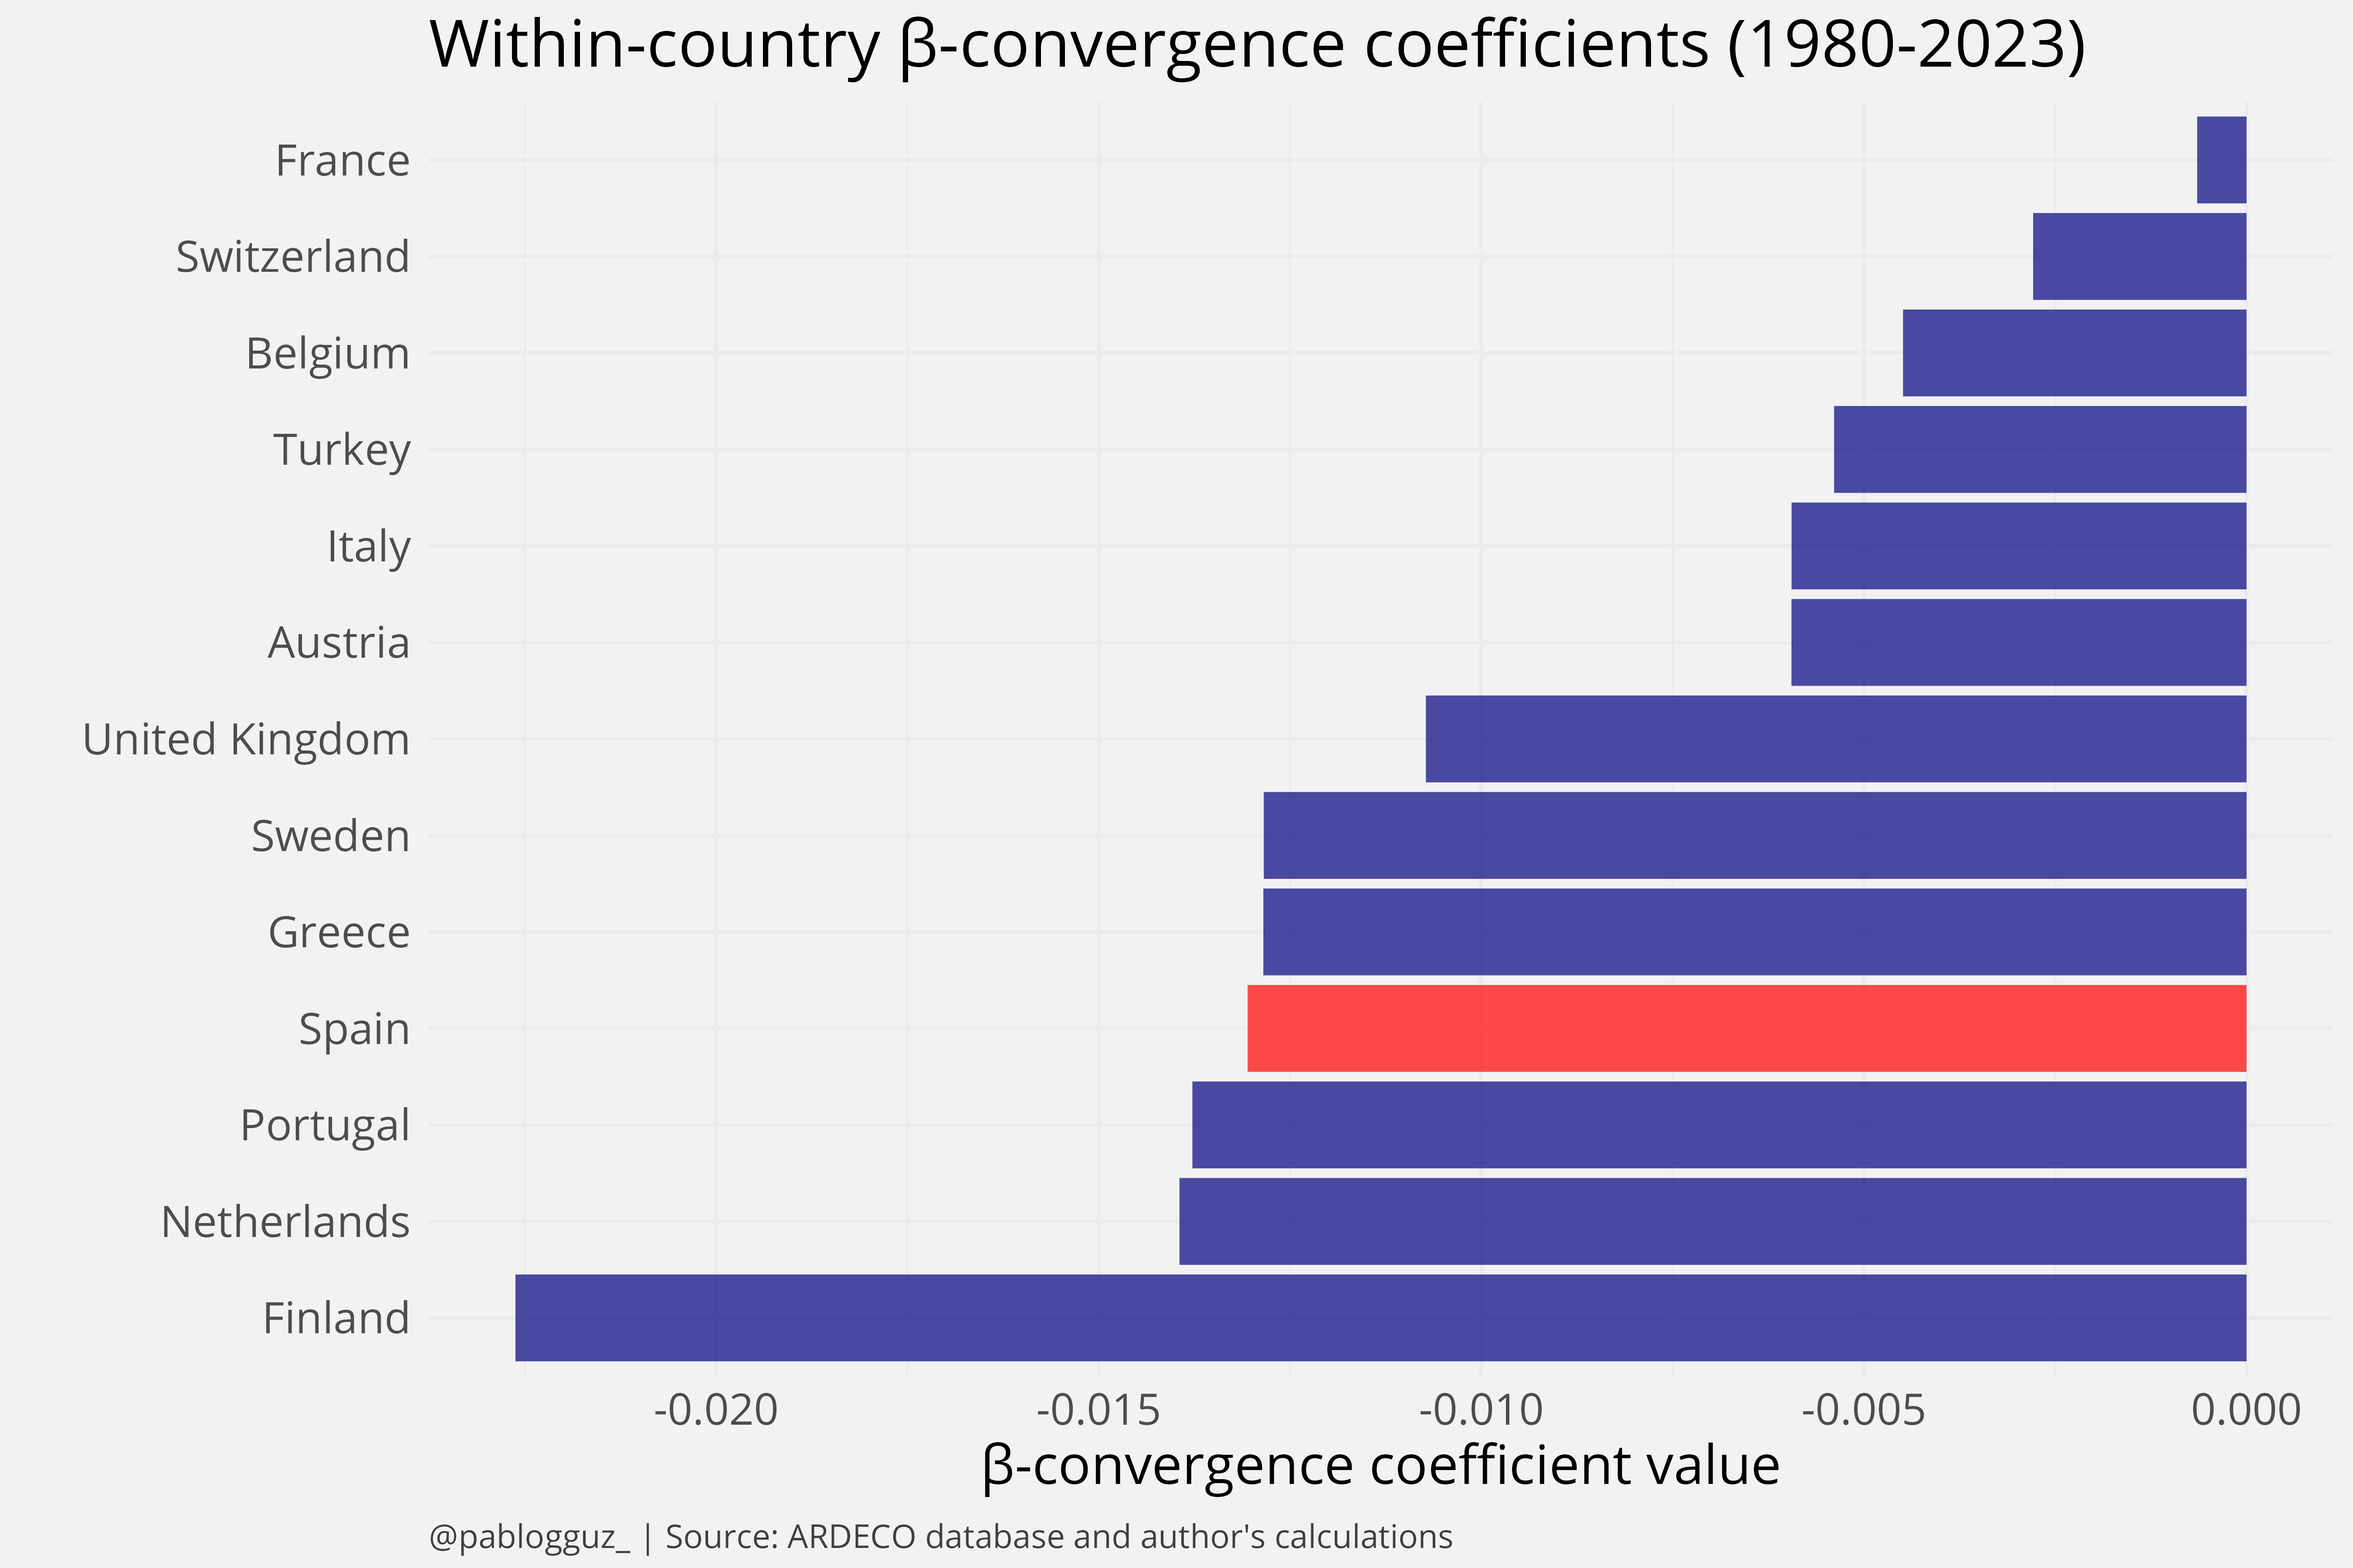
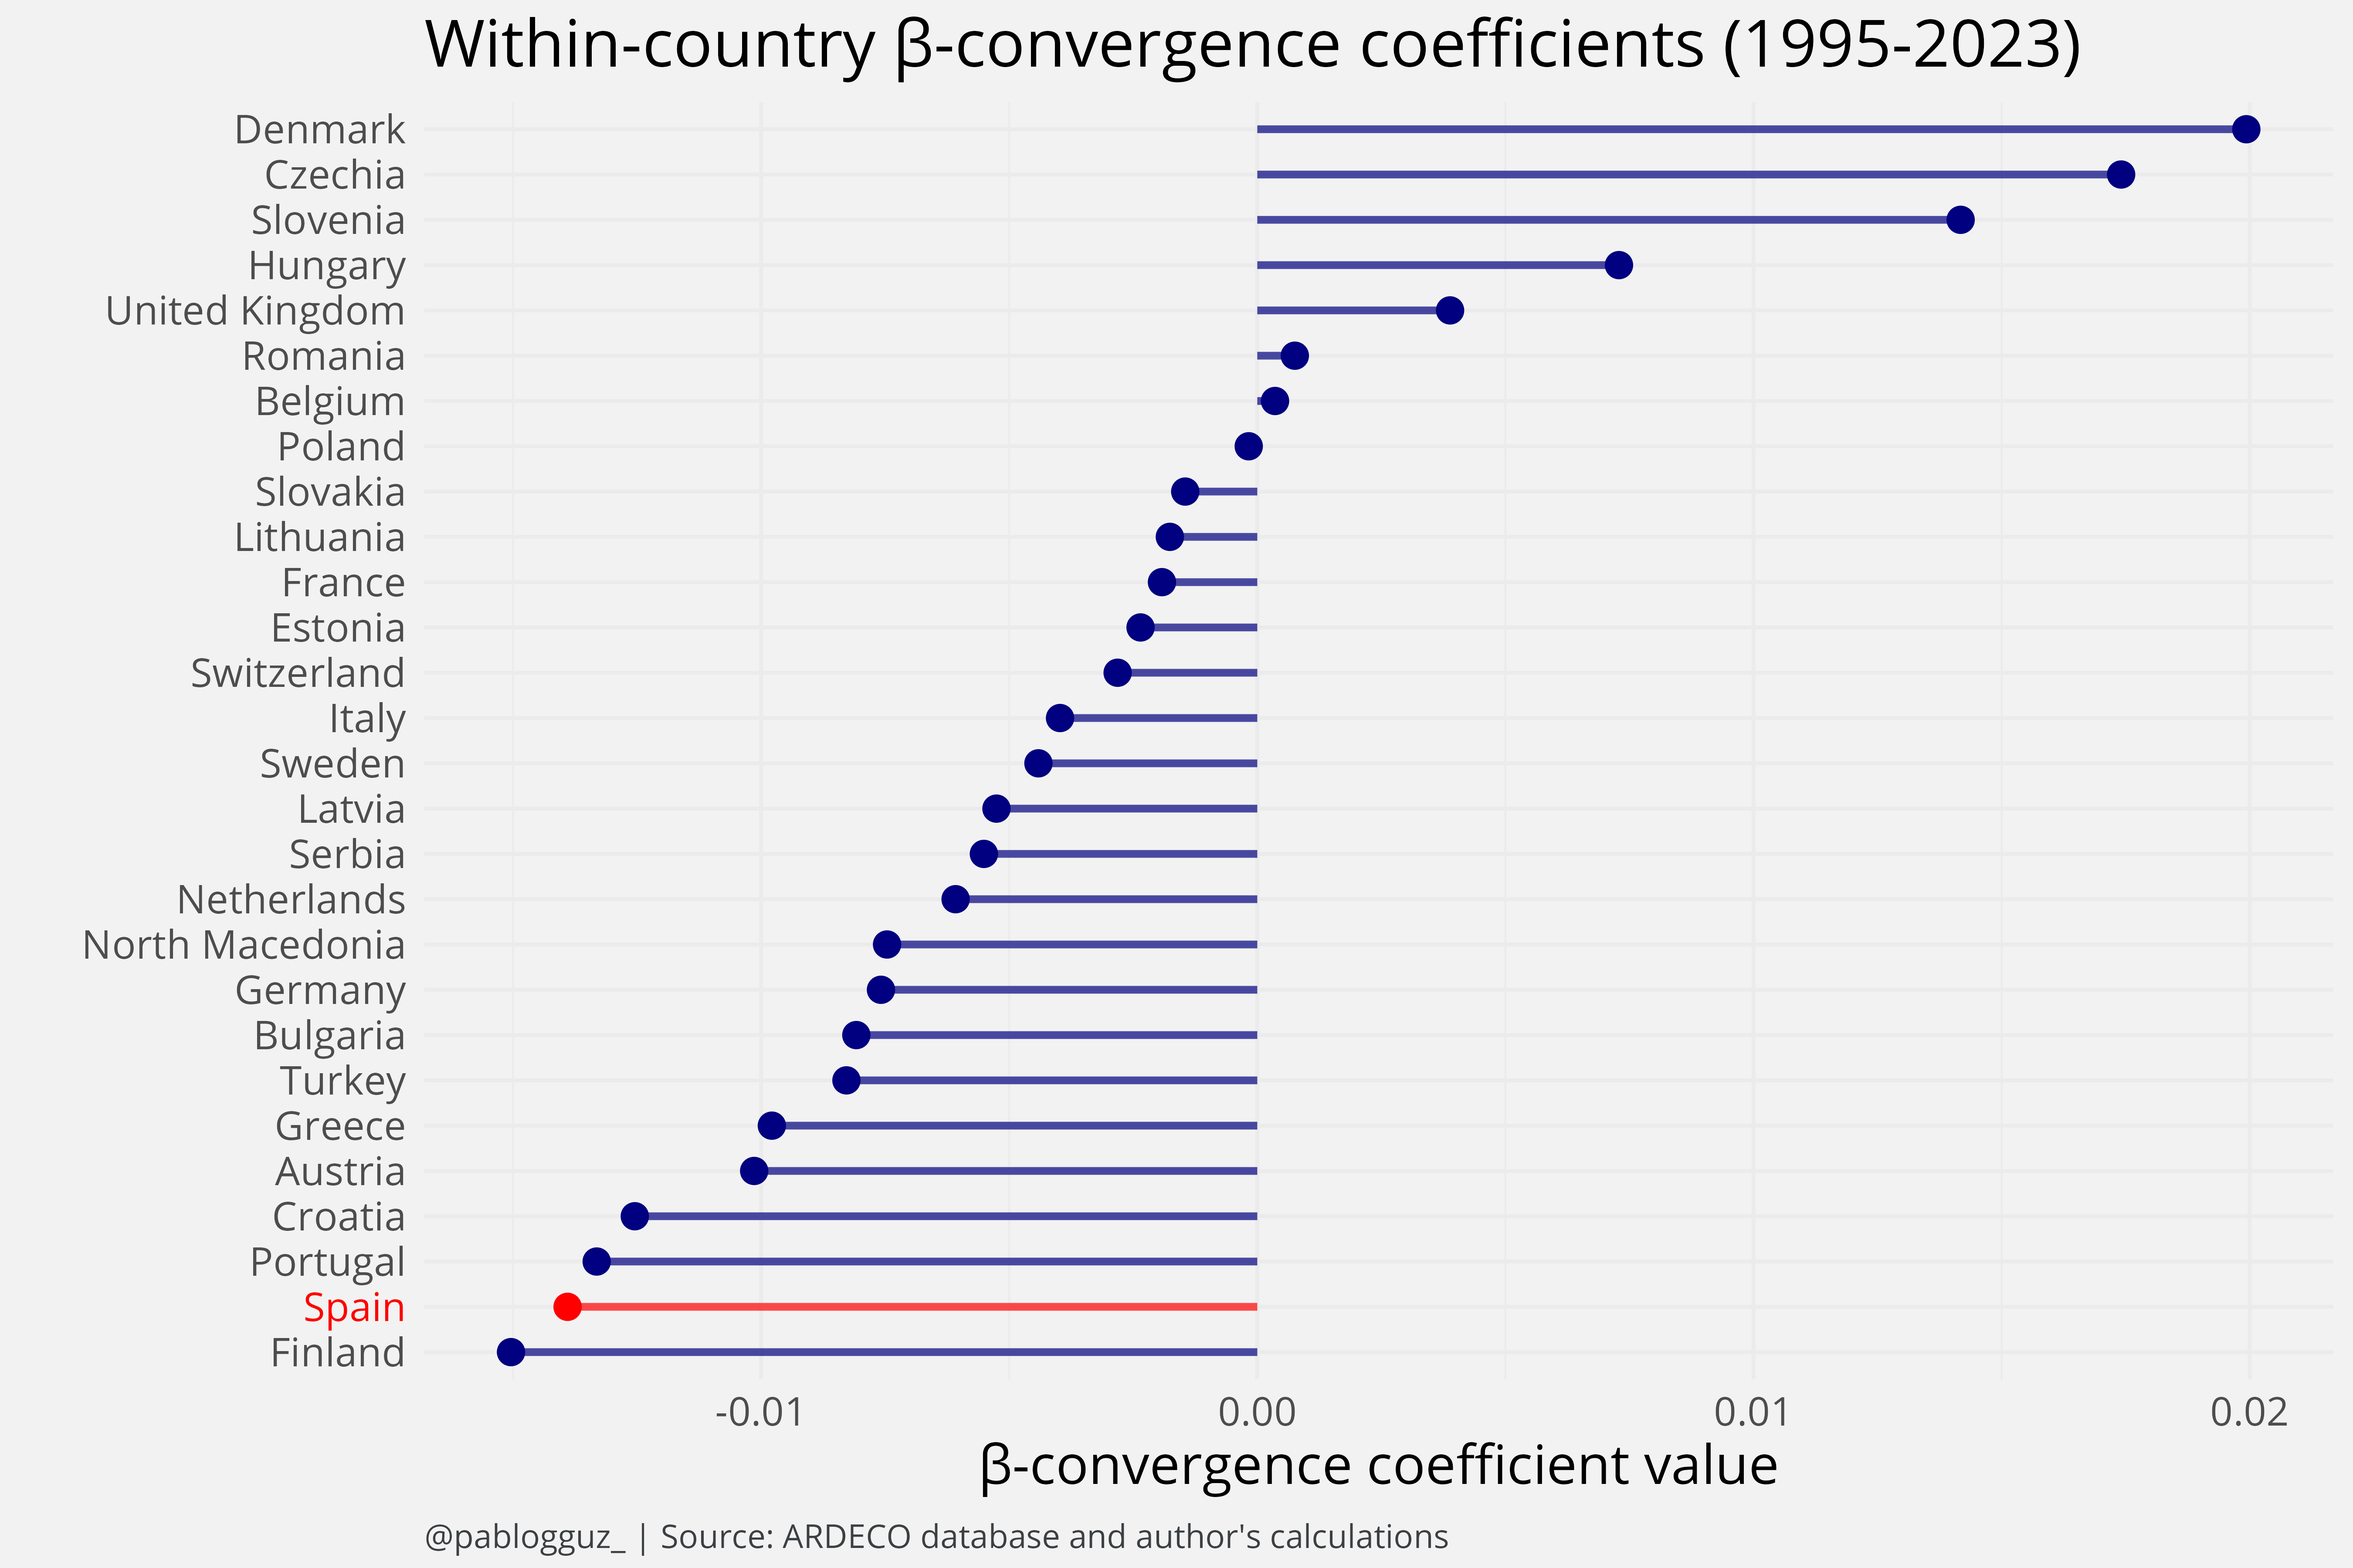
housekeeping

Changed region(s): [[0.0311, 0.0, 0.9644, 0.9956]]

diff --git a/templates/projects.html b/templates/projects.html
@@ -23,13 +23,13 @@
             <div class="desc" id="descDiv" style="display: none;">{{ proj.desc | trim | markdown | safe }}</div> -->
             <div class="desc">{{ proj.desc | trim | markdown | safe }}</div>
             {% if proj.r_url %}
-            <a href="{{ proj.r_url }}" class="desc-button link-button" target="_blank"><i class="fab fa-r-project"></i> R Package</a>
+            <a href="{{ proj.r_url }}" class="desc-button link-button" target="_blank"><i class="fab fa-r-project"></i> R package</a>
             {% endif %}
             {% if proj.shiny_url %}
-            <a href="{{ proj.shiny_url }}" class="desc-button link-button" target="_blank"><i class="fas fa-chart-line"></i> Shiny App</a>
+            <a href="{{ proj.shiny_url }}" class="desc-button link-button" target="_blank"><i class="fas fa-chart-line"></i> App</a>
             {% endif %}
             {% if proj.github_url %}
-            <a href="{{ proj.github_url }}" class="desc-button link-button" target="_blank"><i class="fab fa-github"></i> GitHub Repo</a>
+            <a href="{{ proj.github_url }}" class="desc-button link-button" target="_blank"><i class="fab fa-github"></i> Code</a>
             {% endif %}
             {% if proj.pdf_url %}
             <a href="{{ proj.pdf_url }}" class="desc-button link-button" target="_blank"><i class="fas fa-file-pdf"></i> PDF</a>

diff --git a/content/blog/regional_dev_esp.md b/content/blog/regional_dev_esp.md
@@ -24,13 +24,11 @@ reading_time = 2
 
 # Data
 
-The ARDECO database is a product maintained by the European Commission's Joint Research Centre. This dataset provides information on a wide range of economic indicators at sub-national level (NUTS2, NUTS3, and metro regions) for EU and EFTA regions, as well as for some candidate countries. You can find the data [here](https://urban.jrc.ec.europa.eu/ardeco/explorer?lng=en). Unless stated otherwise, the GDP per capita figures used in this post are expressed in constant 2015 EUR.
-
-# Some descriptives 
+The ARDECO database is a product maintained by the European Commission's Joint Research Centre. This dataset provides information on a wide range of economic indicators at sub-national level (NUTS 1, NUTS 2, NUTS 3, and metropolitan regions) for EU and EFTA regions, as well as for some candidate countries. You can find the data [here](https://urban.jrc.ec.europa.eu/ardeco/explorer?lng=en). The GDP per capita figures used in this post are expressed in constant 2015 EUR.
 
 # $\beta$- and $\sigma$-convergence in Spain
 
-The classical literature on economic growth distinguishes between $\beta$- and $\sigma$-convergence. The former reflects whether poorer countries or regions tend to grow faster than richer ones, and can be interpreted as the rate at which the income levels across geographies converge over time. The latter, on the other hand, assesses whether the dispersion of income levels across countries or regions tend to decrease over time.
+The classical literature on economic growth distinguishes between $\beta$- and $\sigma$-convergence. The former reflects whether poorer countries or regions tend to grow faster than richer ones, and can be interpreted as the rate at which the income levels across geographies converge over time. The latter assesses whether the dispersion of income levels across countries or regions tend to decrease over time.
 
 Intuitively, $\beta$-convergence is a necessary condition for $\sigma$-convergence to hold. In other words, if inequality in income levels across regions is decreasing over time, then it must be the case that poorer regions are catching up with richer ones.[^1] 
 
@@ -42,32 +40,29 @@ $$
 
 where $\Delta y_{it}$ is an approximation for the cumulative income growth rate in region $i$ between time $t$ and $t-1$, and $y_{it-1}$ denotes the income level at baseline in region $i$. The coefficient $\beta$ is the parameter of interest, and it measures the speed at which income levels converge (if negative) or diverge (if positive) across regions. 
 
-If we gather data on sub-national GDP per capita levels for the period 1980-2023 and fit the regression above across Spanish NUTS3 regions, we obtain a (statistically significant) $\beta$-convergence coefficient of -0.0131. This implies that, on average, the income levels across Spanish regions converged at a rate of 1.31% per year over the period of study (see <a href="#fig1">Figure 1</a>). With this rate of convergence, it would take approximately 53 years to close half the income gap between regions in Spain.[^2]
+# Fact 1: Spanish regions are converging (relatively) fast
+
+If we gather data on sub-national GDP per capita levels for the period 1995-2023 and fit the regression above across Spanish NUTS3 regions, we obtain a (statistically significant) $\beta$-convergence coefficient of -0.0139. This implies that, on average, the income levels across Spanish regions converged at a rate of 1.39% per year over the last 30 years (see <a href="#fig1">Figure 1</a>). With this rate of convergence, it would take approximately 50 years to close half the income gap between regions in Spain.[^2]
 
 <br>
 <figure id="fig1">
   <figcaption>Figure 1</figcaption>
-  <img src="/img/convergence.png" loading="lazy" style="width: 100%; border: 0px none;"></iframe>
+  <img src="/img/convergence_log_gdp_1995.png" loading="lazy" style="width: 100%; border: 0px none;"></iframe>
 </figure>
 <br>
 
-<!-- Ok, technical stop. What the heck is going on in Lanzarote and Fuerteventura? I had no idea they were so (relatively) rich in 1980. Let's assume that the data is correct and move on. -->
-
-Is a 1.31% annual convergence rate good or bad? To put things into perspective, I ran the same analysis for all countries with i) available data since 1980, and ii) at least 15 NUTS3 regions. The results are shown in <a href="#fig2">Figure 2</a>. As you can see, turns out that Spanish regions are converging at a faster pace than the average country in the sample.[^3]
-
+How does this compare to other European economies? I conducted the same analysis for all countries in the ARDECO database with i) available data since 1995, and ii) at least 5 NUTS3 regions.[^3] The results are shown in <a href="#fig2">Figure 2</a>. Strikingly, Spain is one of the countries with the highest rates of convergence in Europe since 1995, only behind Finland.
 
 <br>
 <figure id="fig2">
   <figcaption>Figure 2</figcaption>
-  <img src="/img/convergence_ctries.png" loading="lazy" style="width: 100%; border: 0px none;"></iframe>
+  <img src="/img/convergence_ctries_coef_log_gdp.png" loading="lazy" style="width: 100%; border: 0px none;"></iframe>
 </figure>
 <br>
 
-What about $\sigma$-convergence? We can compute a measure of dispersion by looking at the standard deviation of the log of GDP per capita across regions. In <a href="#fig3">Figure 3</a>, I plot the evolution of this measure over time.
+What about $\sigma$-convergence? We can compute a measure of dispersion by looking at the standard deviation of the log of GDP per capita across regions. In <a href="#fig3">Figure 3</a>, I plot the evolution of this measure over time. As you can see, the dispersion in income levels across Spanish regions has decreased significantly since 1990, consistent with the $\beta$-convergence results. 
 
-As you can see, the dispersion in income levels across Spanish regions has decreased significantly since 1980, consistent with the $\beta$-convergence results. 
-
-<!-- If we transform the standard deviation into a coefficient of variation (the ratio of the standard deviation to the mean), we find that the coefficient of variation has decreased from 0.33 in 1980 to 0.21 in 2023. This suggests that the dispersion of income levels across Spanish regions has decreased by approximately 36% over the period of study. -->
+<!-- If we transform the standard deviation into a coefficient of variation (the ratio of the standard deviation to the mean), we find that the coefficient of variation has decreased from 0.33 in 1990 to 0.21 in 2023. This suggests that the dispersion of income levels across Spanish regions has decreased by approximately 36% over the period of study. -->
 
 <br>
 <figure id="fig3">
@@ -76,14 +71,16 @@ As you can see, the dispersion in income levels across Spanish regions has decre
 </figure>
 <br>
 
-# Decomposing economic growth in Spain
+# Fact 2: Spanish regions are falling behind 
 
 
 
 -----------------------------------------------------------------
 
-[^1]: This is not a sufficient condition, however. Economies are subject to random shocks (i.e., unexpected events like natural disasters, policy changes, or financial crises) that can couse some regions to grow faster or slower, regardless of their initial income levels. These shocks can counteract the convergence process, leading to an steady state where dispersion of income levels increases. See [Barro and Sala-i-Martin (1992)](https://www.jstor.org/stable/2138606).
+[^1]: However, $\beta$-convergence is not a sufficient condition for $\sigma$-convergence. Economies are subject to random shocks (i.e., unexpected events like natural disasters, policy changes, or financial crises) that can couse some regions to grow faster or slower, regardless of their initial income levels. These shocks can counteract the convergence process, leading to an steady state where dispersion of income levels increases. Additionally, $\sigma$-convergence might also not occur if the speed of $\beta$-convergence is not fast enough to offset initial income dispersion. See [Barro and Sala-i-Martin (1992)](https://www.jstor.org/stable/2138606).
 
-[^2]: The formula to calculate the time it takes to close half the gap between regions is given by $t = \frac{log(2)}{\beta}$. In this case, $t = \frac{log(2)}{-0.0131} \approx 53$ years.
+[^2]: The formula to calculate the time it takes to close half the gap between regions is given by $t = \frac{log(2)}{\beta}$. In this case, $t = \frac{log(2)}{-0.0145} \approx 48$ years.
 
-[^3]: Denmark looks very weird. The data suggests $\beta$-divergence (that is, richer regions are growing faster than poorer ones). I am taking the data at face value, but this is perhaps worth checking.
+[^3]: I removed Ireland as the GDP per capita figures derived from standard national accounts methodology are meaningless there due to profit shifting by multinational corporations (e.g., iPhone exports in 2017 accounted for 25% of Irish GDP growth. See [here](https://www.imf.org/en/Publications/WEO/Issues/2018/03/20/world-economic-outlook-april-2018)).
+
+
